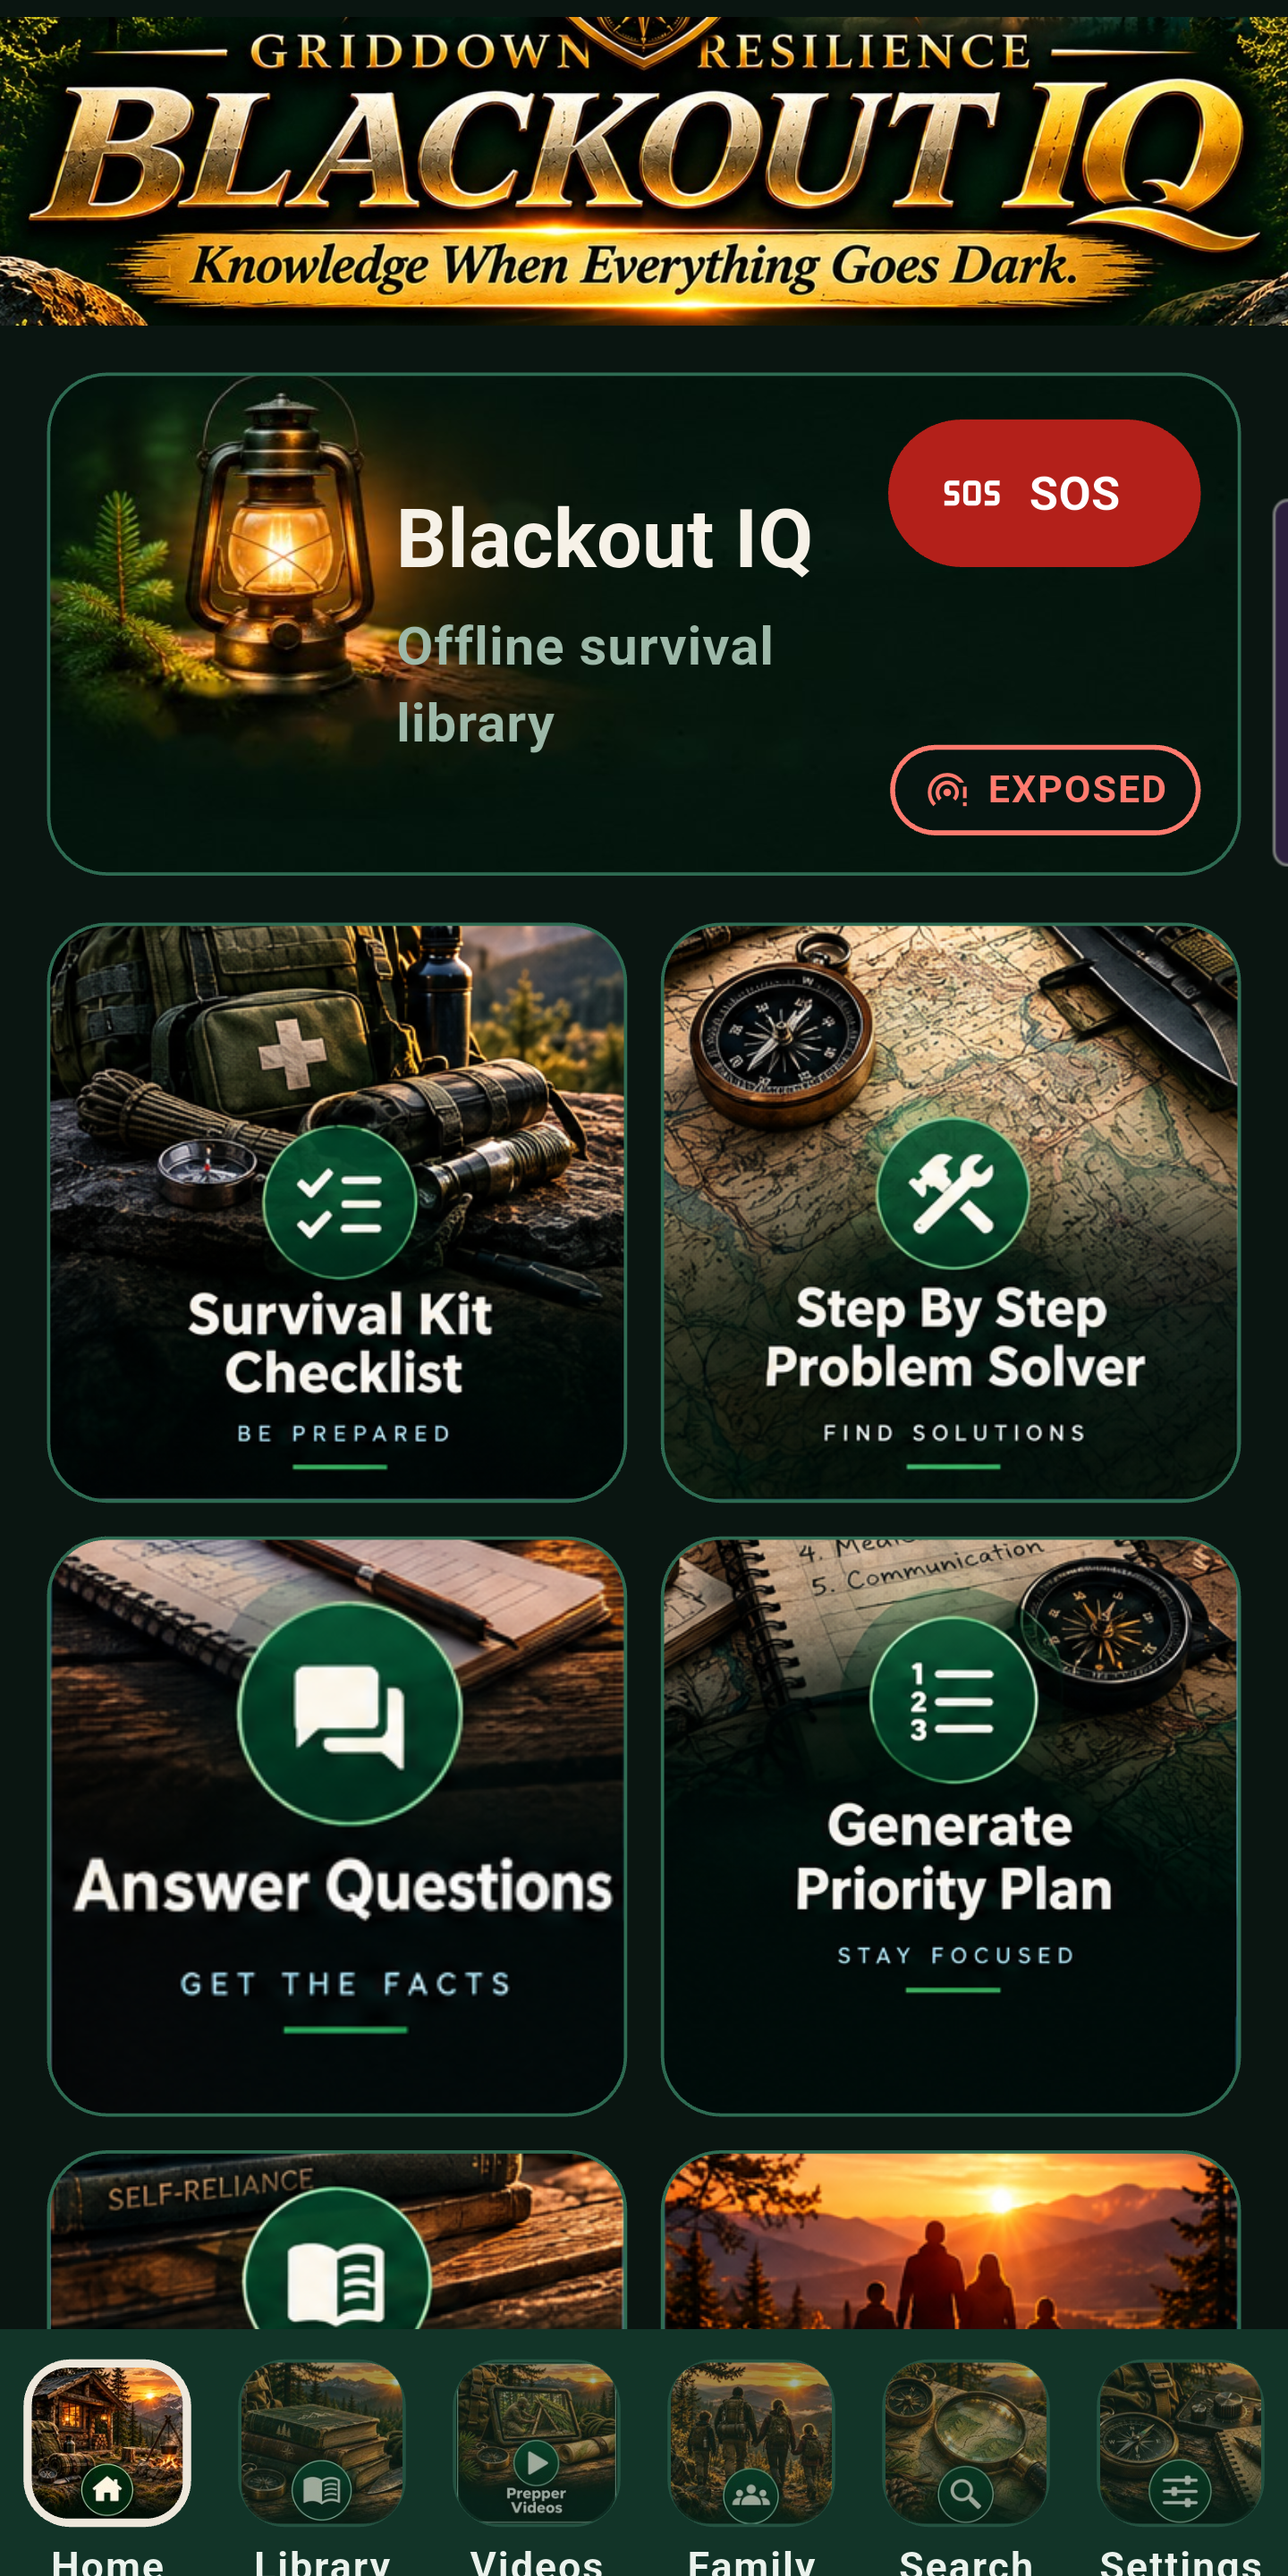
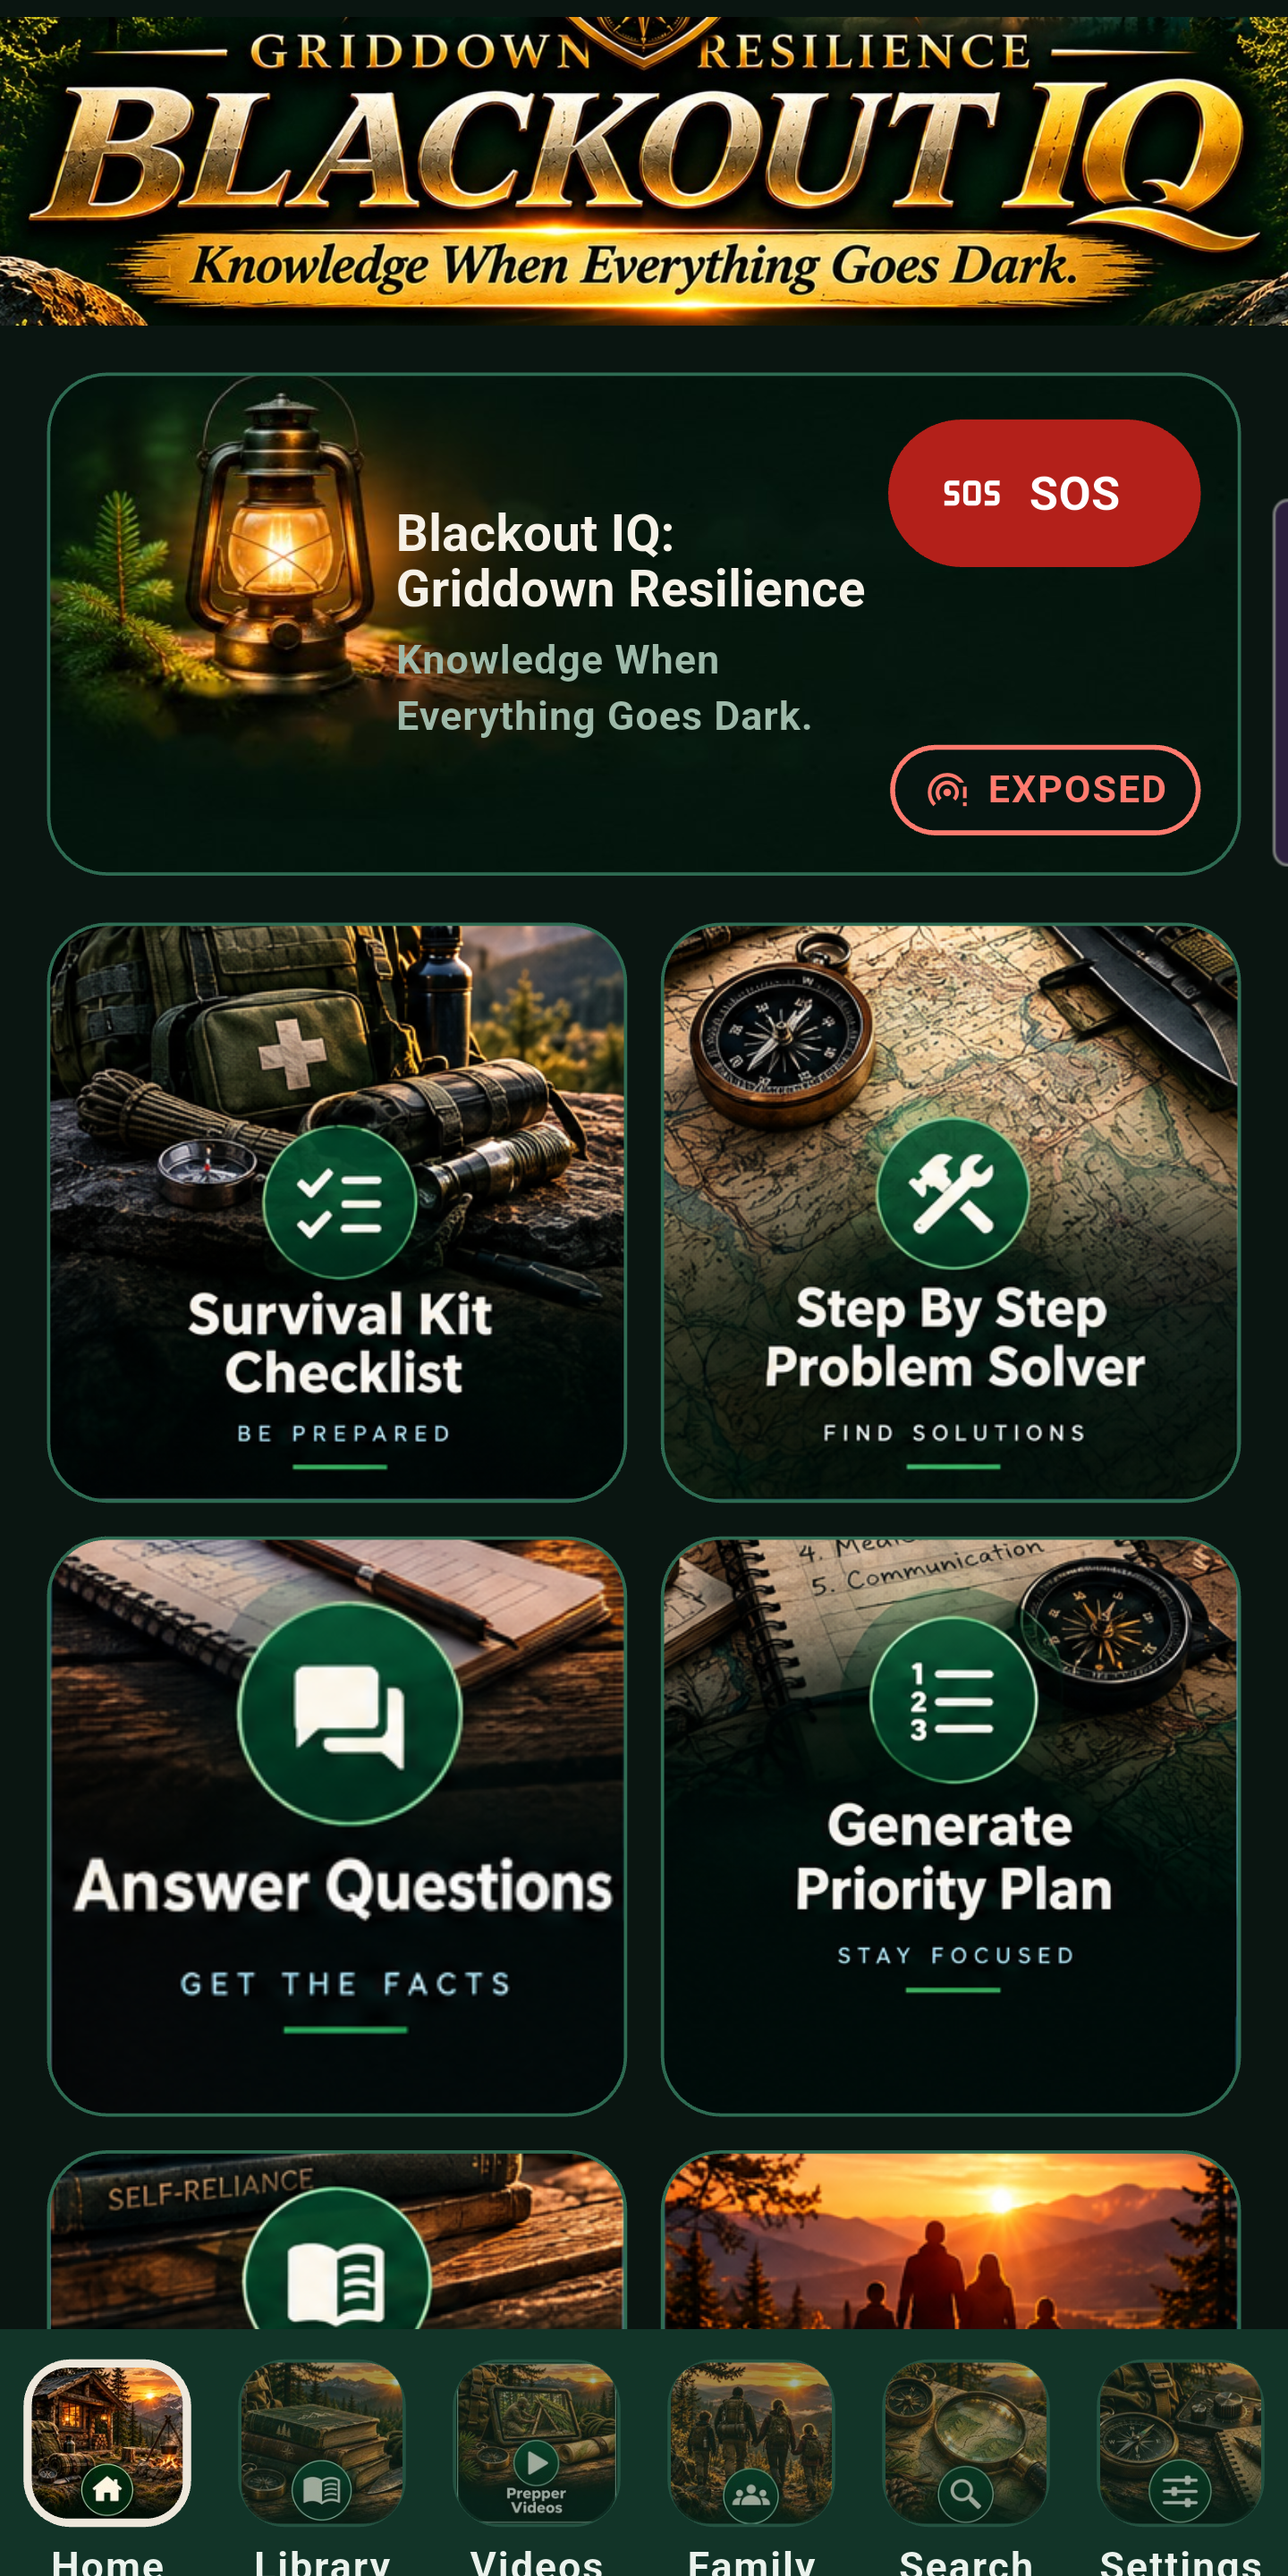
Title Blackout IQ: Griddown Resilience with tagline; refreshed Home screenshot

Changed region(s): [[0.3125, 0.1875, 0.6875, 0.3125]]

diff --git a/lib/ui/about_screen.dart b/lib/ui/about_screen.dart
@@ -29,7 +29,8 @@ class AboutScreen extends StatelessWidget {
     return Scaffold(
       appBar: AppBar(title: const Text('About, safety and credits')),
       body: ListView(padding: const EdgeInsets.fromLTRB(20, 16, 20, 32), children: [
-        const Text('Blackout IQ', style: TextStyle(fontSize: 24, fontWeight: FontWeight.w800)),
+        const Text('Blackout IQ: Griddown Resilience', style: TextStyle(fontSize: 24, fontWeight: FontWeight.w800)),
+        const Text('Knowledge When Everything Goes Dark.', style: TextStyle(color: AppTheme.muted)),
         const Text('Published by Twelve Scents Publishing', style: TextStyle(color: AppTheme.muted)),
         const Text(kAppVersionLabel, style: TextStyle(color: AppTheme.muted)),
         const SizedBox(height: 22),
@@ -52,7 +53,7 @@ class AboutScreen extends StatelessWidget {
         bullet('Video tutorials belong to their creators and play on YouTube. The list links to videos from The Prepping Team, City Prepping, Canadian Prepper, Lead Farmer and FEMA. Nothing is copied or downloaded.'),
         const SizedBox(height: 24),
         OutlinedButton.icon(
-          onPressed: () => showLicensePage(context: context, applicationName: 'Blackout IQ', applicationVersion: kAppVersionLabel.replaceFirst('Version ', '')),
+          onPressed: () => showLicensePage(context: context, applicationName: 'Blackout IQ: Griddown Resilience', applicationVersion: kAppVersionLabel.replaceFirst('Version ', '')),
           icon: const Icon(Icons.description_outlined),
           label: const Text('Open-source licences'),
         ),

diff --git a/lib/home/home_screen.dart b/lib/home/home_screen.dart
@@ -56,10 +56,10 @@ class HomeScreen extends StatelessWidget {
                   FittedBox(
                     fit: BoxFit.scaleDown,
                     alignment: Alignment.centerLeft,
-                    child: Text('Blackout IQ', style: Theme.of(context).textTheme.headlineSmall?.copyWith(fontWeight: FontWeight.w800, color: const Color(0xFFF6F1E7))),
+                    child: Text('Blackout IQ:\nGriddown Resilience', style: Theme.of(context).textTheme.titleLarge?.copyWith(fontWeight: FontWeight.w800, height: 1.1, color: const Color(0xFFF6F1E7))),
                   ),
                   const SizedBox(height: 4),
-                  const Text('Offline survival library', style: TextStyle(color: AppTheme.muted)),
+                  const Text('Knowledge When Everything Goes Dark.', style: TextStyle(color: AppTheme.muted, fontSize: 12), maxLines: 2),
                 ]),
               ),
               // SOS sits in the top-right corner and the status pill in the bottom-right, well apart from each

diff --git a/lib/home/tour_screen.dart b/lib/home/tour_screen.dart
@@ -15,7 +15,7 @@ class _TourPage {
 }
 
 const _pages = <_TourPage>[
-  _TourPage('assets/tour/01_welcome.jpg', 'Welcome to Blackout IQ',
+  _TourPage('assets/tour/01_welcome.jpg', 'Welcome to Blackout IQ: Griddown Resilience',
       'A survival library that lives on this device. The manuals, checklists and maps work with no signal at all, so they are there when the network is not. Swipe to see how everything fits together.'),
   _TourPage('assets/tour/02_tiles.jpg', 'Six tiles, six ways to get help',
       'Survival Kit Checklist: pack and check your kit.\nStep By Step Problem Solver: describe a problem and get the best steps from the manuals.\nAnswer Questions: ask in plain words.\nGenerate Priority Plan: say what is happening and what you have, and get a ranked plan.\nLibrary and Family sit below them.\n\nWith the on-device AI model installed, answers are written out as steps. Without it, you get the exact manual passages that answer the question.',

diff --git a/lib/ui/masthead.dart b/lib/ui/masthead.dart
@@ -11,7 +11,7 @@ class Masthead extends StatelessWidget {
   @override
   Widget build(BuildContext context) {
     return Semantics(
-      label: 'Blackout IQ by Twelve Scents Publishing',
+      label: 'Blackout IQ: Griddown Resilience. Knowledge When Everything Goes Dark. By Twelve Scents Publishing',
       image: true,
       child: Container(
         height: 92,

diff --git a/lib/main.dart b/lib/main.dart
@@ -104,7 +104,7 @@ class _SurvivalNodeAppState extends State<SurvivalNodeApp> {
 
   @override
   Widget build(BuildContext context) => MaterialApp(
-        title: 'Blackout IQ',
+        title: 'Blackout IQ: Griddown Resilience',
         debugShowCheckedModeBanner: false,
         theme: AppTheme.build(),
         themeMode: ThemeMode.dark,

diff --git a/docs/store/PLAY_STORE_LISTING.md b/docs/store/PLAY_STORE_LISTING.md
@@ -4,10 +4,12 @@
 
 ## Listing text
 
-**App name** (30 max): `Blackout IQ: Offline Survival`
+**App name** (30 max): `Blackout IQ: Griddown Resilience` is 32 characters, so Play will reject it. Use `Blackout IQ` (or `Blackout IQ: Griddown`, 21) as the Play name. The full title and tagline show in the app and in the first line of the short description.
 
-**Short description** (80 max, this is exactly 80):
-`Offline survival library: manuals, maps, checklists and a locked document vault.`
+**Tagline:** Knowledge When Everything Goes Dark.
+
+**Short description** (80 max, this is 78):
+`Knowledge when everything goes dark: offline manuals, maps, checklists, vault.`
 
 **Full description** (4000 max):
 
